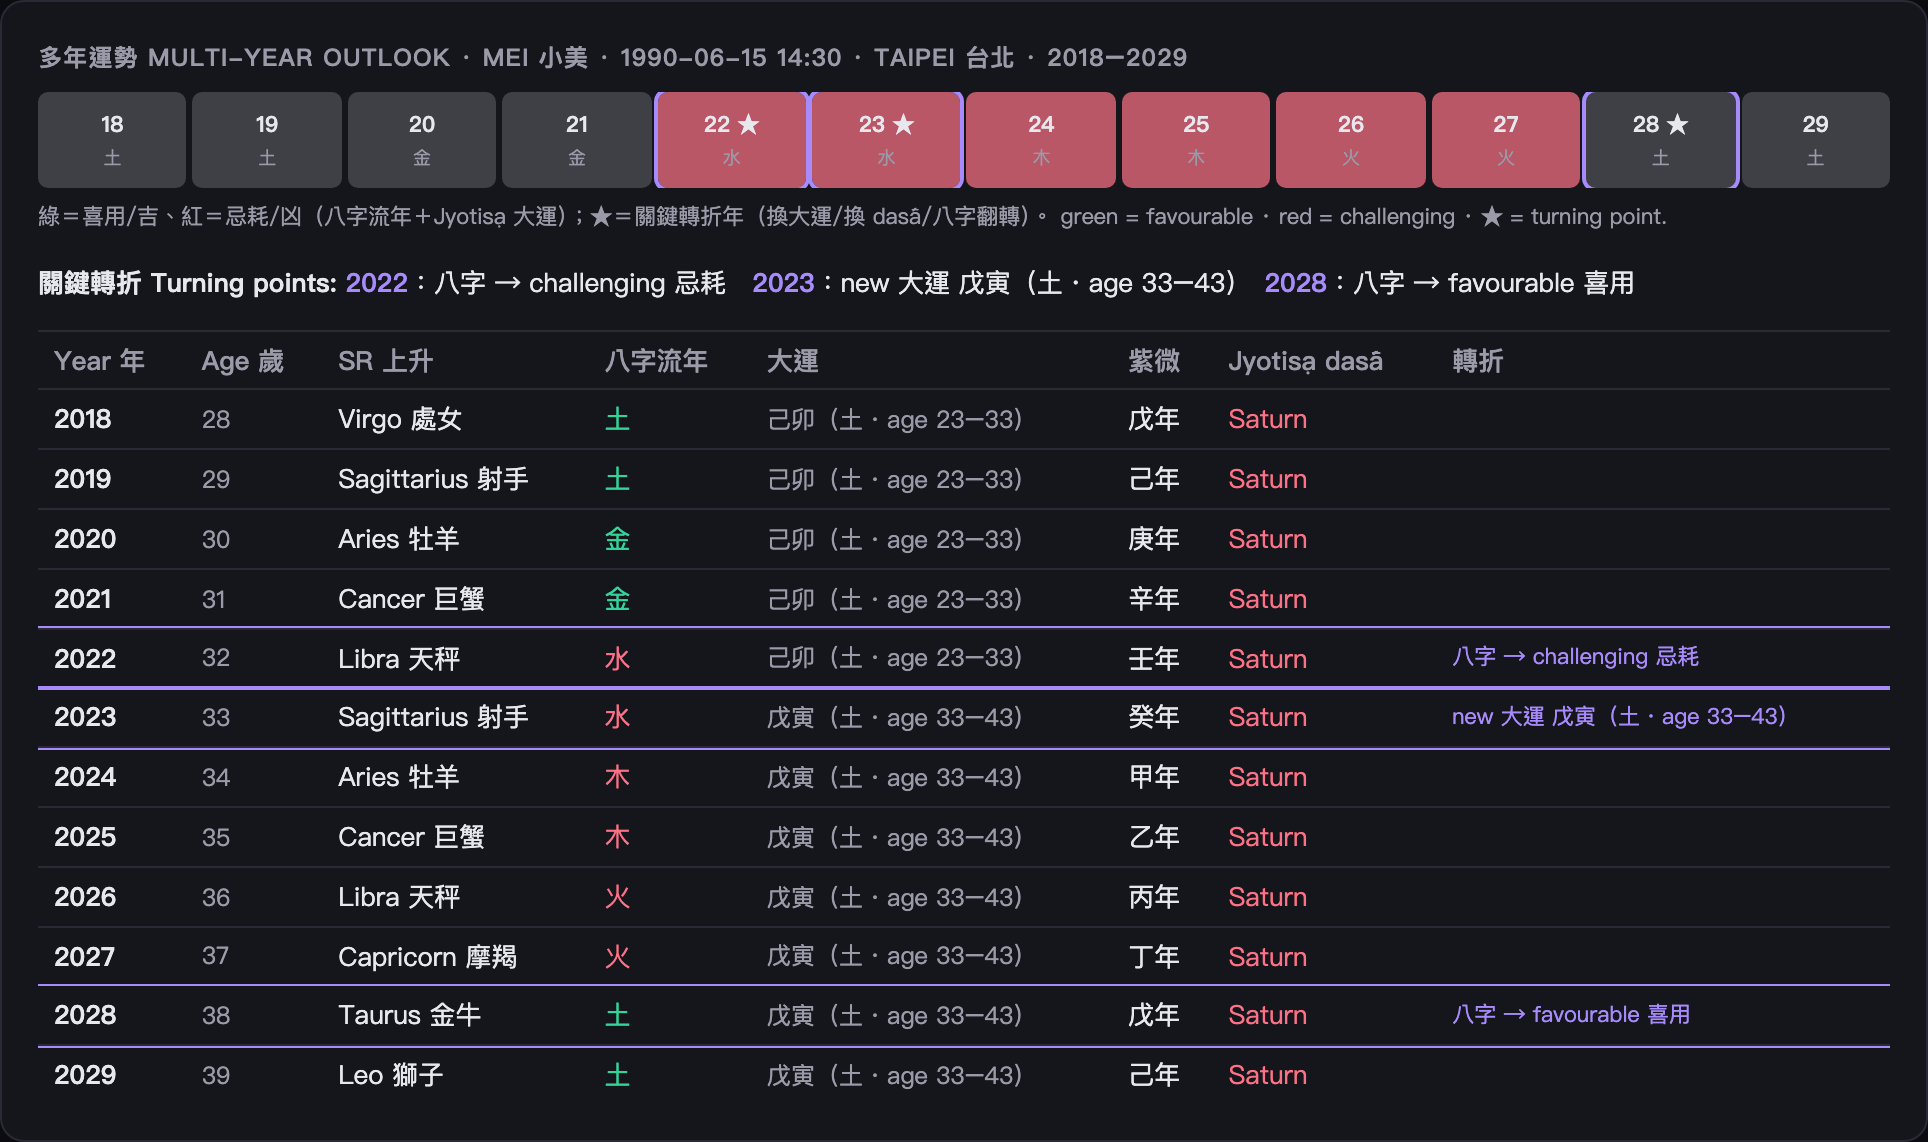
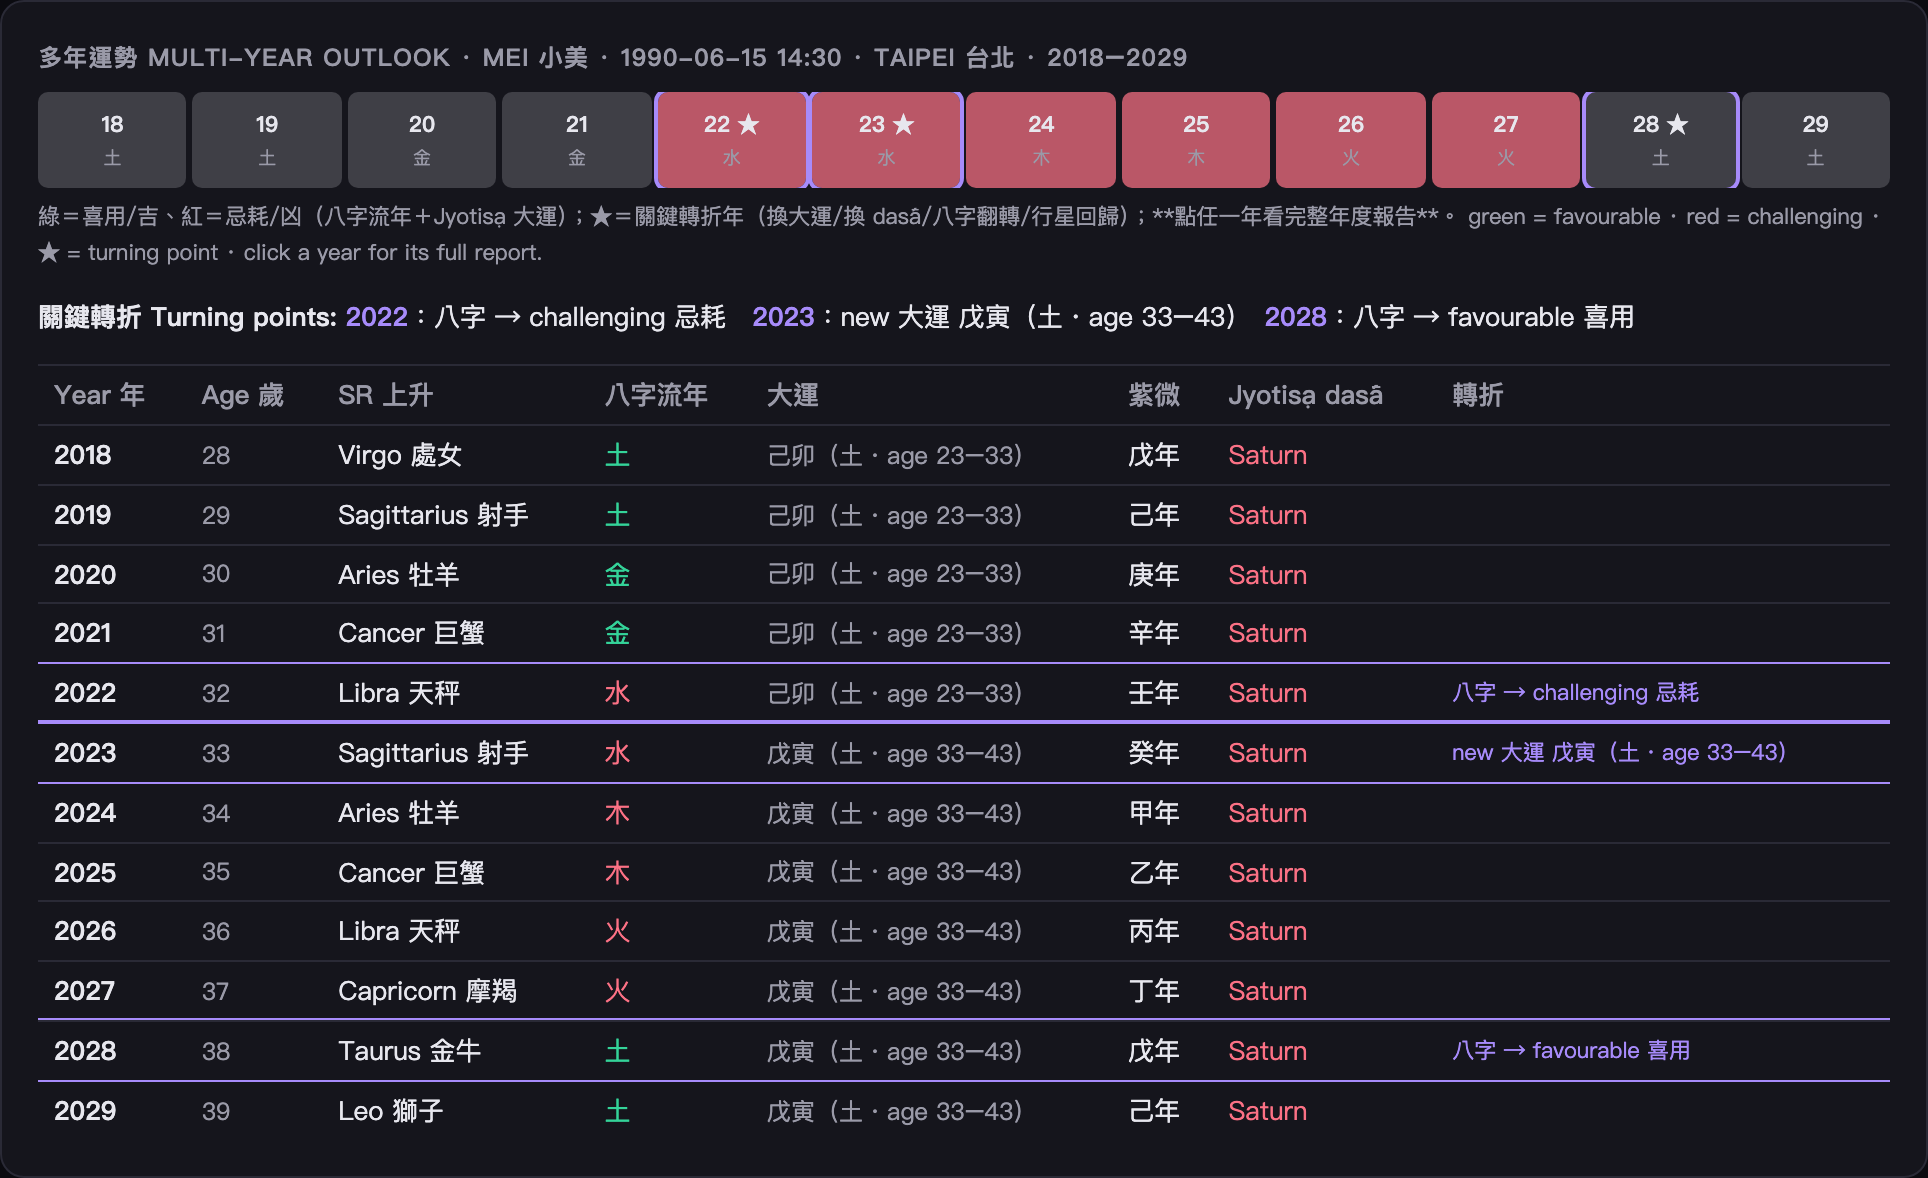
feat: planet returns as turning points + click a year to expand its report
① Planet-return milestones — the multi-year overview now also flags the year a Saturn
   (~29.5 yr) or Jupiter (~12 yr) return falls in, with a ★ on the heatmap (verified:
   Saturn return #1 lands on the age-29.6 year). Pulled from timeline.astrology_returns;
   failure-tolerant so the milestone scan never breaks the overview.

② Clickable heatmap — clicking any year cell (or table row) fetches and expands that
   year's full annual report (with its SR wheel) below the heatmap, keeping the overview
   in place. OverviewView gains an onYear callback; page openAnnualYear keeps the arc.

pytest 66 (turning-point test now also asserts the Saturn-return milestone). next build
clean. Refreshed the overview screenshot. Smoke: page 200.

diff --git a/web/app/_components/AnnualView.tsx b/web/app/_components/AnnualView.tsx
@@ -57,18 +57,20 @@ function scoreColor(score: number): string {
   return m[Math.max(-2, Math.min(2, score))] ?? "#3f3f46";
 }
 
-export function OverviewView({ o }: { o: AnnualOverview }) {
+export function OverviewView({ o, onYear }: { o: AnnualOverview; onYear?: (year: number) => void }) {
   return (
     <>
       <div className="card">
         <h3>多年運勢 Multi-year outlook · {o.subject} · {o.start_year}–{o.start_year + o.count - 1}</h3>
 
-        {/* heatmap strip: one colour block per year, ★ marks a turning point */}
+        {/* heatmap strip: one colour block per year, ★ marks a turning point; click to expand */}
         <div style={{ display: "flex", gap: 3, margin: "4px 0 6px", overflowX: "auto" }}>
           {o.years.map((y) => (
-            <div key={y.year} title={(y.turning || []).join(" · ") || `score ${y.score}`}
+            <div key={y.year} onClick={() => onYear?.(y.year)}
+                 title={[(y.turning || []).join(" · ") || `score ${y.score}`, onYear ? "— click for full report 點看完整年度報告" : ""].filter(Boolean).join(" ")}
                  style={{ flex: "1 0 42px", minWidth: 42, textAlign: "center", padding: "8px 2px",
                           borderRadius: 5, background: scoreColor(y.score), fontSize: 11,
+                          cursor: onYear ? "pointer" : "default",
                           outline: (y.turning?.length ? "2px solid var(--accent)" : "none") }}>
               <div style={{ fontWeight: 600 }}>{String(y.year).slice(2)}{y.turning?.length ? " ★" : ""}</div>
               <div className="muted" style={{ fontSize: 9 }}>{y.bazi_element}</div>
@@ -76,8 +78,8 @@ export function OverviewView({ o }: { o: AnnualOverview }) {
           ))}
         </div>
         <p className="muted" style={{ fontSize: 11, marginTop: 0 }}>
-          綠＝喜用/吉、紅＝忌耗/凶（八字流年＋Jyotiṣa 大運）；★＝關鍵轉折年（換大運/換 daśā/八字翻轉）。
-          green = favourable · red = challenging · ★ = turning point.
+          綠＝喜用/吉、紅＝忌耗/凶（八字流年＋Jyotiṣa 大運）；★＝關鍵轉折年（換大運/換 daśā/八字翻轉/行星回歸）；**點任一年看完整年度報告**。
+          green = favourable · red = challenging · ★ = turning point · click a year for its full report.
         </p>
 
         {(o.turning_points?.length ?? 0) > 0 && (
@@ -96,7 +98,8 @@ export function OverviewView({ o }: { o: AnnualOverview }) {
             </tr></thead>
             <tbody>
               {o.years.map((y) => (
-                <tr key={y.year} style={y.turning?.length ? { outline: "1px solid var(--accent)" } : {}}>
+                <tr key={y.year} onClick={() => onYear?.(y.year)}
+                    style={{ cursor: onYear ? "pointer" : "default", ...(y.turning?.length ? { outline: "1px solid var(--accent)" } : {}) }}>
                   <td><b>{y.year}</b></td><td className="muted">{y.age}</td>
                   <td>{y.sr_ascendant}</td>
                   <td style={fav(y.bazi_verdict)}>{y.bazi_element}</td>

diff --git a/web/app/page.tsx b/web/app/page.tsx
@@ -129,6 +129,15 @@ export default function Page() {
     finally { setBusy(false); }
   }
 
+  // click a year in the overview → expand that year's full report (keep the overview)
+  async function openAnnualYear(year: number) {
+    setBusy(true); setErr(null); setAnnualYear(year);
+    try {
+      setAnnual(await getAnnual(toBirth(formA), year, focus || null));
+    } catch (e: any) { setErr(String(e.message || e)); }
+    finally { setBusy(false); }
+  }
+
   function exportPng() {
     const svg = document.querySelector("#chart-area svg") as SVGSVGElement | null;
     if (!svg) return;
@@ -286,8 +295,8 @@ export default function Page() {
 
       {mode === "synastry" && synastry && <SynastryView s={synastry} busy={busy} />}
       {mode === "group" && group && <GroupView g={group} />}
+      {mode === "annual" && overview && <OverviewView o={overview} onYear={openAnnualYear} />}
       {mode === "annual" && annual && <AnnualView a={annual} />}
-      {mode === "annual" && overview && <OverviewView o={overview} />}
 
       {mode === "single" && reading && (
         <>

diff --git a/fortune/annual.py b/fortune/annual.py
@@ -94,6 +94,14 @@ def overview(birth: BirthInput, start_year: int, count: int = 6) -> dict:
             "jyotish_lord": s["jyotish"]["mahadasha_lord"], "jyotish_nature": s["jyotish"]["nature"],
         })
 
+    # planet returns (Saturn ~29.5 yr, Jupiter ~12 yr) landing in any of these years
+    returns_by_year: dict[str, list[str]] = {}
+    try:
+        for p in tl.astrology_returns(birth).periods:
+            returns_by_year.setdefault(p.start[:4], []).append(p.label)
+    except Exception:  # noqa: BLE001 — never let the milestone scan break the overview
+        pass
+
     prev = None
     for r in rows:
         r["score"] = _year_score(r)
@@ -107,6 +115,7 @@ def overview(birth: BirthInput, start_year: int, count: int = 6) -> dict:
             cf = r["bazi_verdict"].startswith("favourable")
             if pf != cf:
                 t.append("八字 → " + ("favourable 喜用" if cf else "challenging 忌耗"))
+        t.extend(returns_by_year.get(str(r["year"]), []))   # e.g. "Saturn return #1"
         r["turning"] = t
         prev = r
 

diff --git a/tests/test_smoke.py b/tests/test_smoke.py
@@ -136,10 +136,11 @@ def test_annual_overview_arc():
 
 def test_overview_turning_points_detected():
     from fortune import annual
-    ov = annual.overview(BIRTH, 2018, 12)   # spans a 八字 flip and a 大運 change
+    ov = annual.overview(BIRTH, 2018, 12)   # spans a 八字 flip, a 大運 change, and a Saturn return
     assert ov["turning_points"]
     events = " ".join(e for t in ov["turning_points"] for e in t["events"])
     assert "大運" in events or "八字" in events or "daśā" in events
+    assert "Saturn return" in events        # the ~age-29.5 milestone is flagged
     # the year of a turning point carries its events on the row too
     tp = ov["turning_points"][0]
     row = next(y for y in ov["years"] if y["year"] == tp["year"])